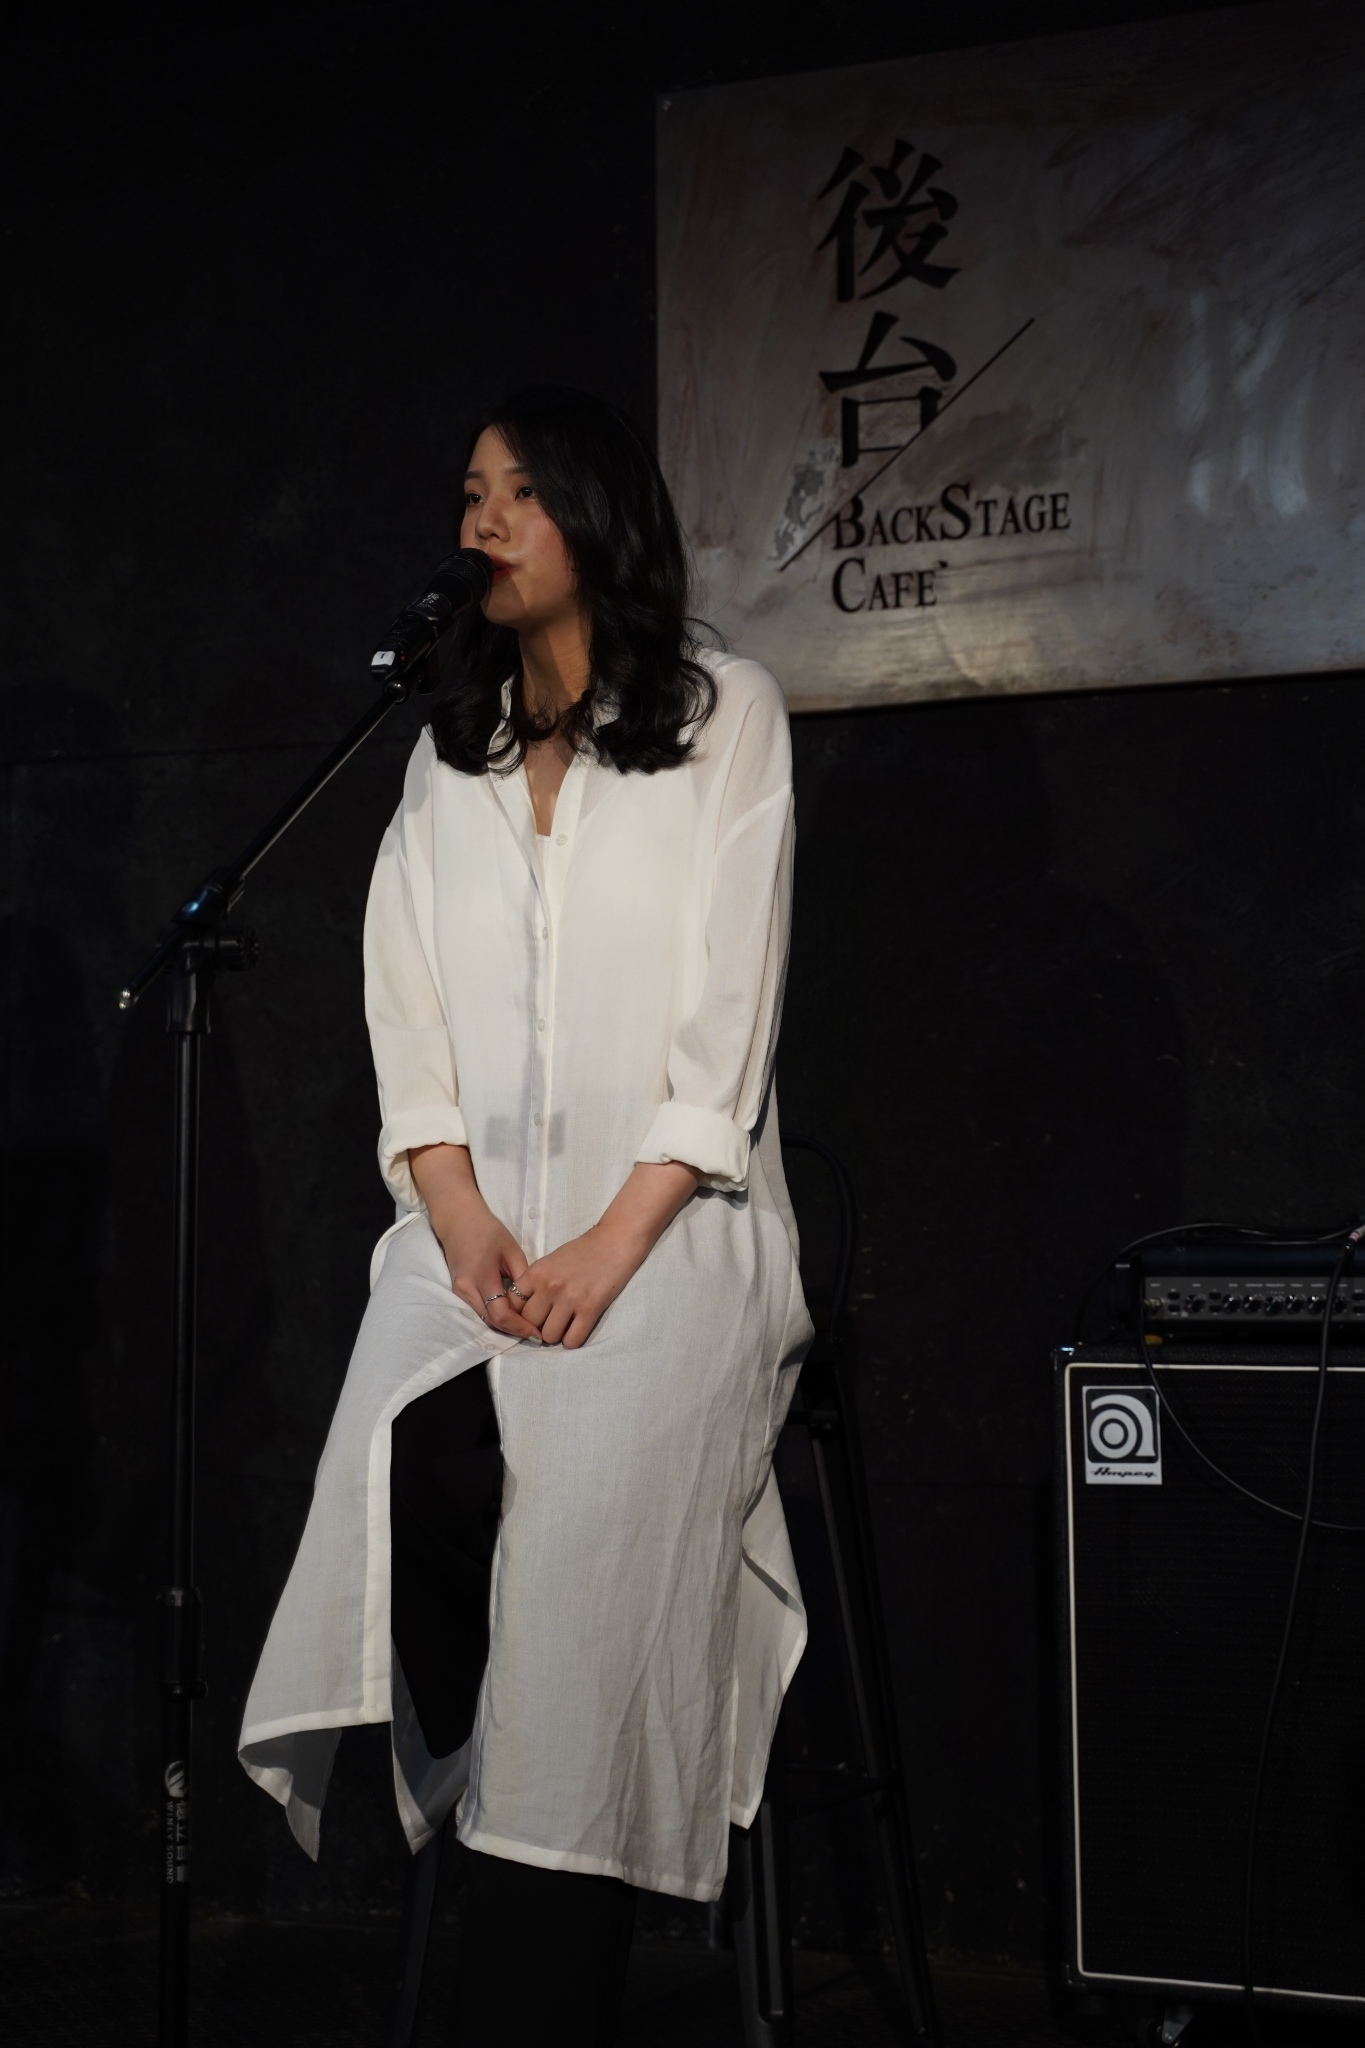
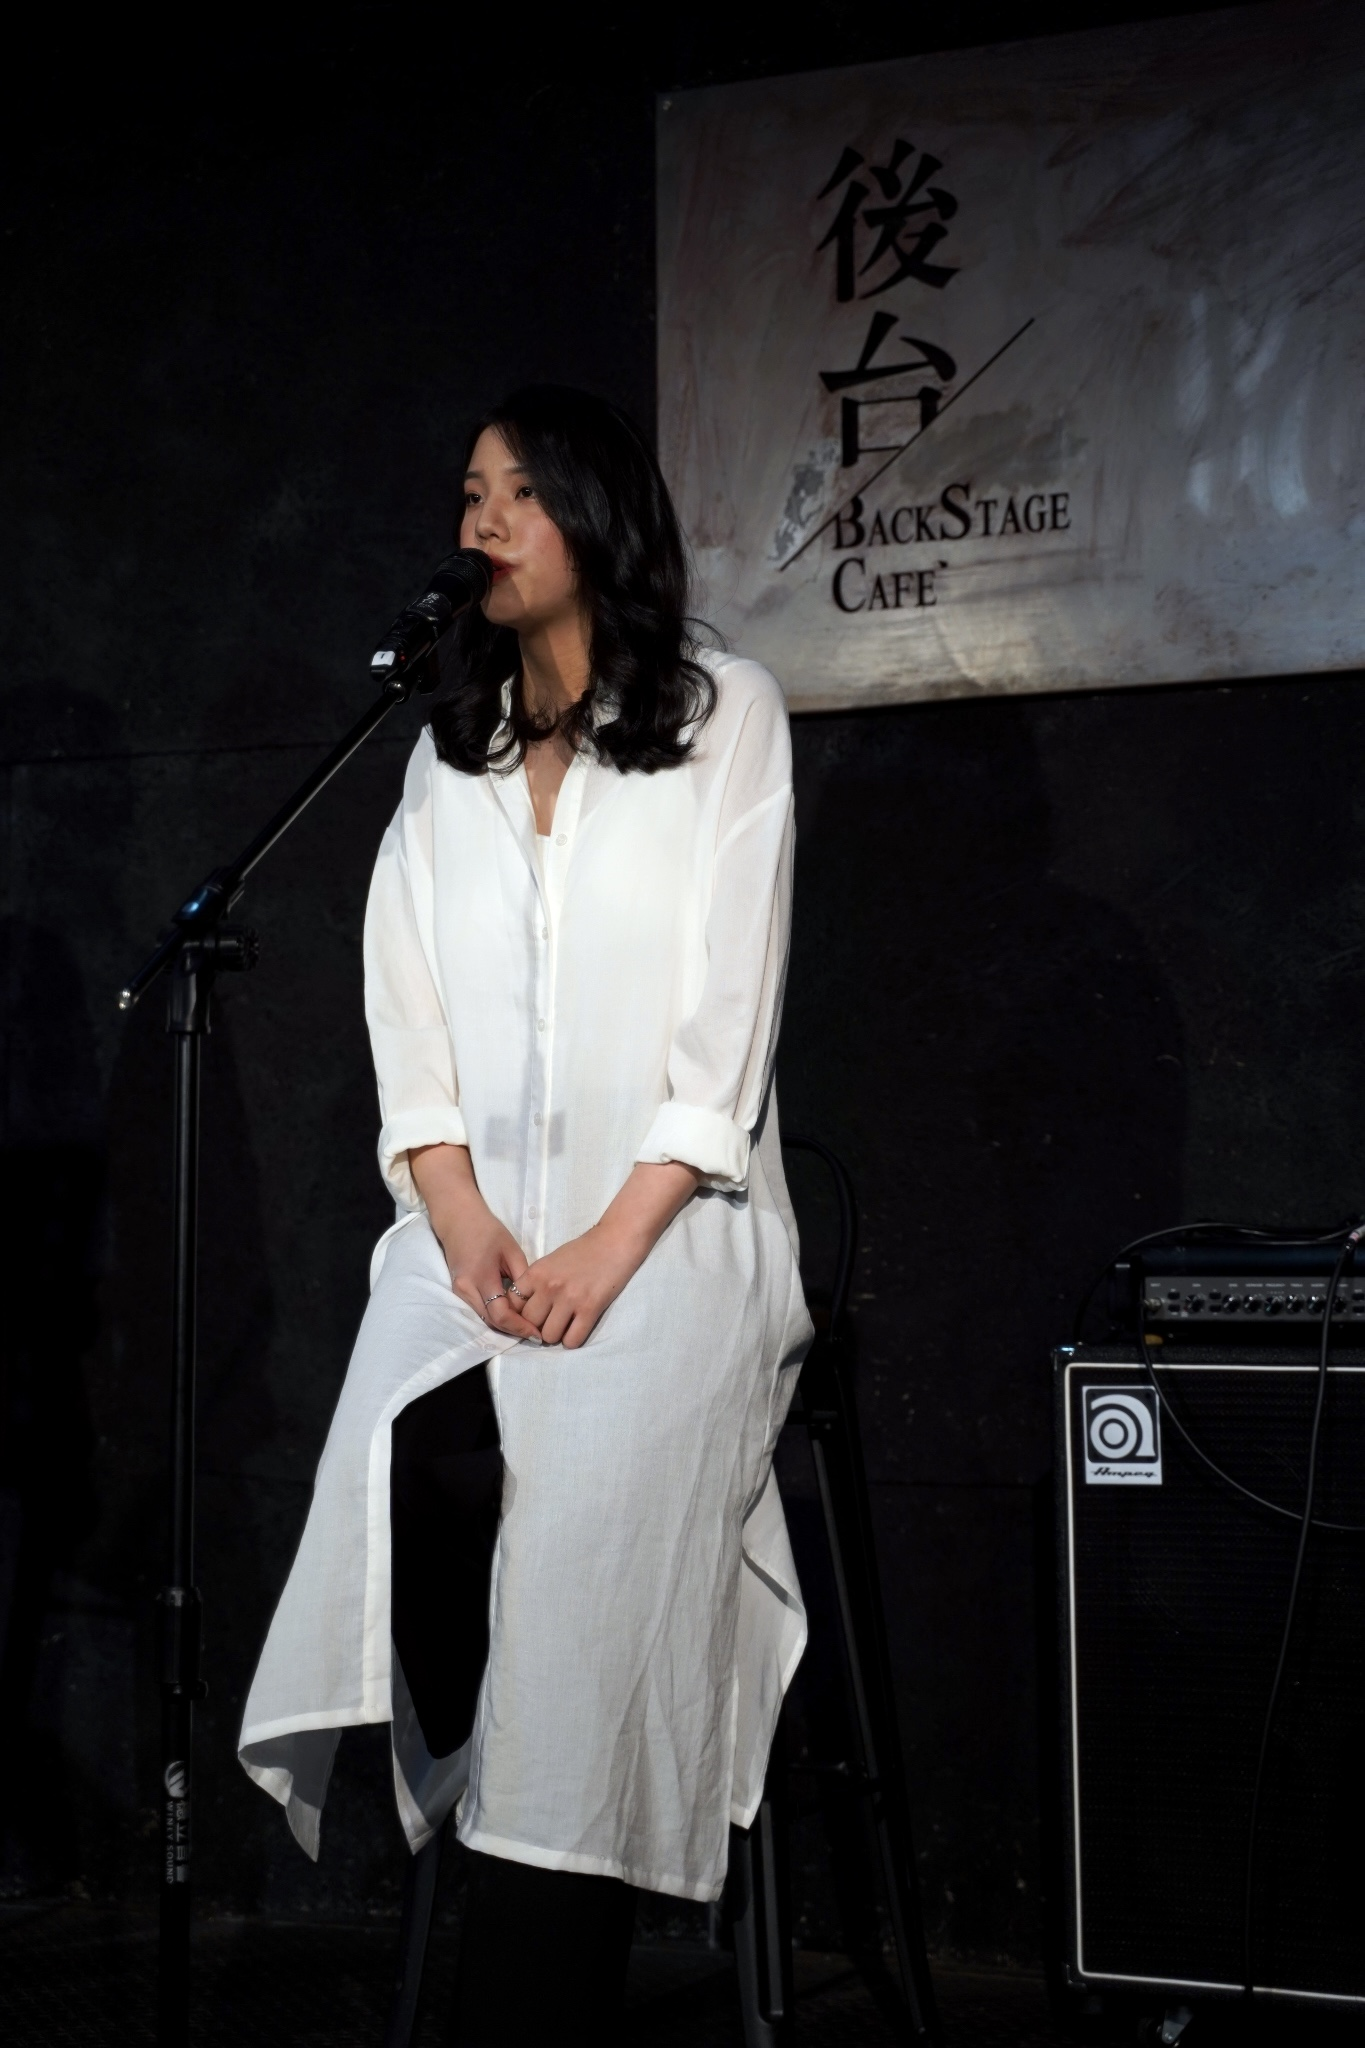
0624_1825

Changed region(s): [[0.1538, 0.1875, 1.0, 0.9375], [0.7692, 0.6562, 0.8615, 0.8438], [0.3385, 0.2188, 0.4308, 0.3125]]

diff --git a/style.css b/style.css
@@ -71,8 +71,7 @@ html,body{
     }
 
 .title{
-    font-size: 50px;
-    color: rgb(51, 51, 51);
+    font-size: 65px;
 }
 #about{
     padding: 120px 0;
@@ -126,18 +125,32 @@ html,body{
     }
 
 #about img{
-    max-width: 30vw;
+    max-width: 35vw;
 }
 
 #experience{
     clear: both;
-    background-image: url(./image/experience.JPG);
+    background-image: url(./image/123.JPG);
     background-repeat: no-repeat;
     background-size: cover;
-    background-attachment: local;
-    height: 2000px;
+    background-position: center;
+    color: #ffffff;
+    height: 100%;
 }
 
-#skill{
+#experience h1{
+    text-align: center;
+    padding: 40px 0 80px;
+}
+#experience .timeline{
+    display: flex;
+    justify-content: center;
+}
+#experience .timeline img{
+    max-width: 50%;
+    padding: 80px 0 350px;
+}
+
+#tools{
     padding-top: 120px;
 }

diff --git a/index.html b/index.html
@@ -47,11 +47,13 @@
 
         <section id="experience">
             <h1 class="title">experience</h1>
-
+            <div class="timeline">
+                <img src="./image/line2.png" alt="">
+            </div>
         </section>
 
-        <section id="skill">
-            <h1 class="title">skill</h1>
+        <section id="tools">
+            <h1 class="title">tools</h1>
             <p>VScode CSS HTML<br>Javascript jQuery<br>Flask<br>Mysql MongoDB<br>ngork Linebot<br>Premiere Finalcut <br>Adobe illustrator<br>Notion Asana Figma</p>
 
         </section>
